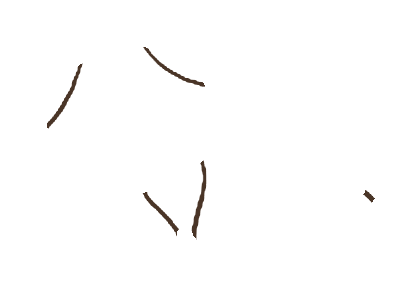
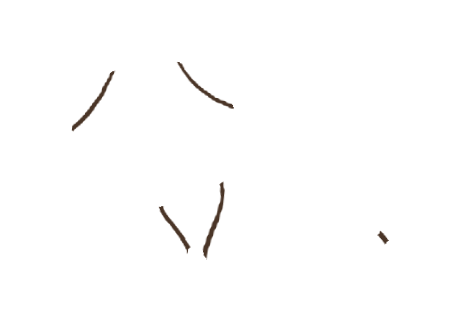
style(cats): sit the lying pose flat, and draw kittens small
The lying cat is drawn on a slant. Its three layers are turned together so
the paws and the rump rest on one line — the region map with nearest-neighbour
sampling so its ids never blend — and the canvas is widened so nothing is
clipped by the turn.

A kitten filled its frame like an adult, so nothing but the pose said it was
small. It now sits low in a wider margin, about two-thirds of an adult's size.

The layer files keep their names when they are regenerated, so a browser could
go on serving the old lines from cache; a version on the request makes it
fetch the new ones.

diff --git a/components/CatPortrait.tsx b/components/CatPortrait.tsx
@@ -39,6 +39,9 @@ interface Props {
  */
 
 const LAYER_DIR = '/images/portraits/'
+/* Bumped whenever the layer files are regenerated. The file names never
+   change, so without this a browser keeps serving the old lines from cache. */
+const LAYER_VERSION = 3
 
 interface PoseLayers {
   width: number
@@ -66,9 +69,9 @@ function loadLayers(pose: Pose): Promise<PoseLayers> {
   if (!pending) {
     pending = (async () => {
       const [regionsImg, inner, outline] = await Promise.all([
-        loadImage(`${LAYER_DIR}${pose}-regions.png`),
-        loadImage(`${LAYER_DIR}${pose}-inner.png`),
-        loadImage(`${LAYER_DIR}${pose}-outline.png`),
+        loadImage(`${LAYER_DIR}${pose}-regions.png?v=${LAYER_VERSION}`),
+        loadImage(`${LAYER_DIR}${pose}-inner.png?v=${LAYER_VERSION}`),
+        loadImage(`${LAYER_DIR}${pose}-outline.png?v=${LAYER_VERSION}`),
       ])
       const { naturalWidth: width, naturalHeight: height } = regionsImg
       const canvas = document.createElement('canvas')
@@ -199,8 +202,10 @@ export default function CatPortrait({ cat, size, decorative = false, className =
           height={size}
           decoding="async"
           // object-contain, never cover: the whole layer fits the square so no
-          // pose loses an ear or a tail tip to the frame.
-          className="w-full h-full object-contain p-[8%]"
+          // pose loses an ear or a tail tip to the frame. A kitten sits in the
+          // bottom of a wider margin, so beside an adult's card she is small —
+          // the size difference says "kitten" before the age does.
+          className={`w-full h-full object-contain ${plan.pose === 'kitten' ? 'p-[18%] object-bottom' : 'p-[8%]'}`}
         />
       )}
       {ready && state.failed && (
